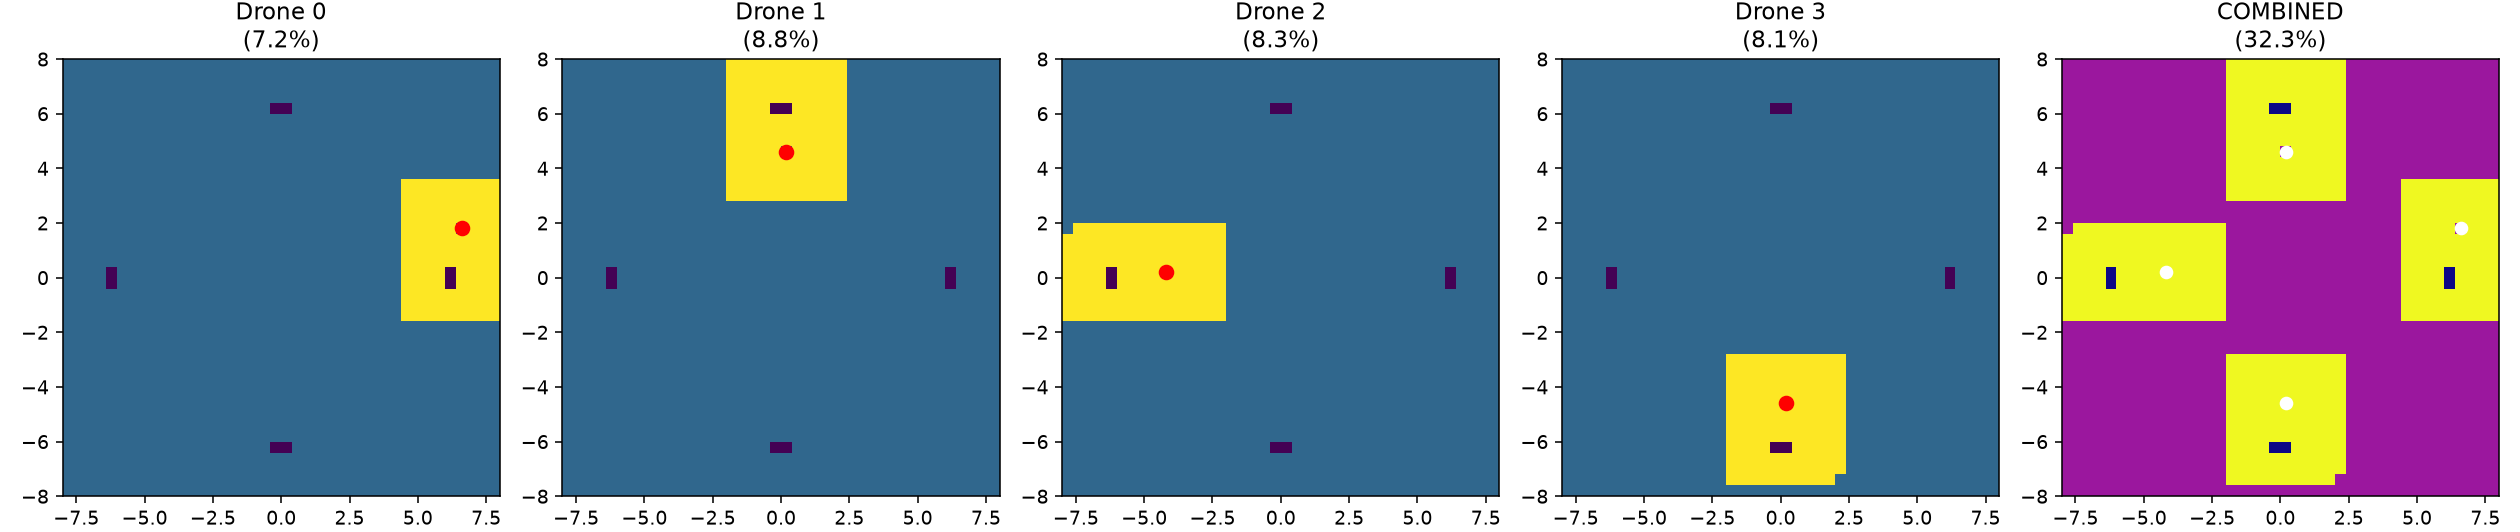
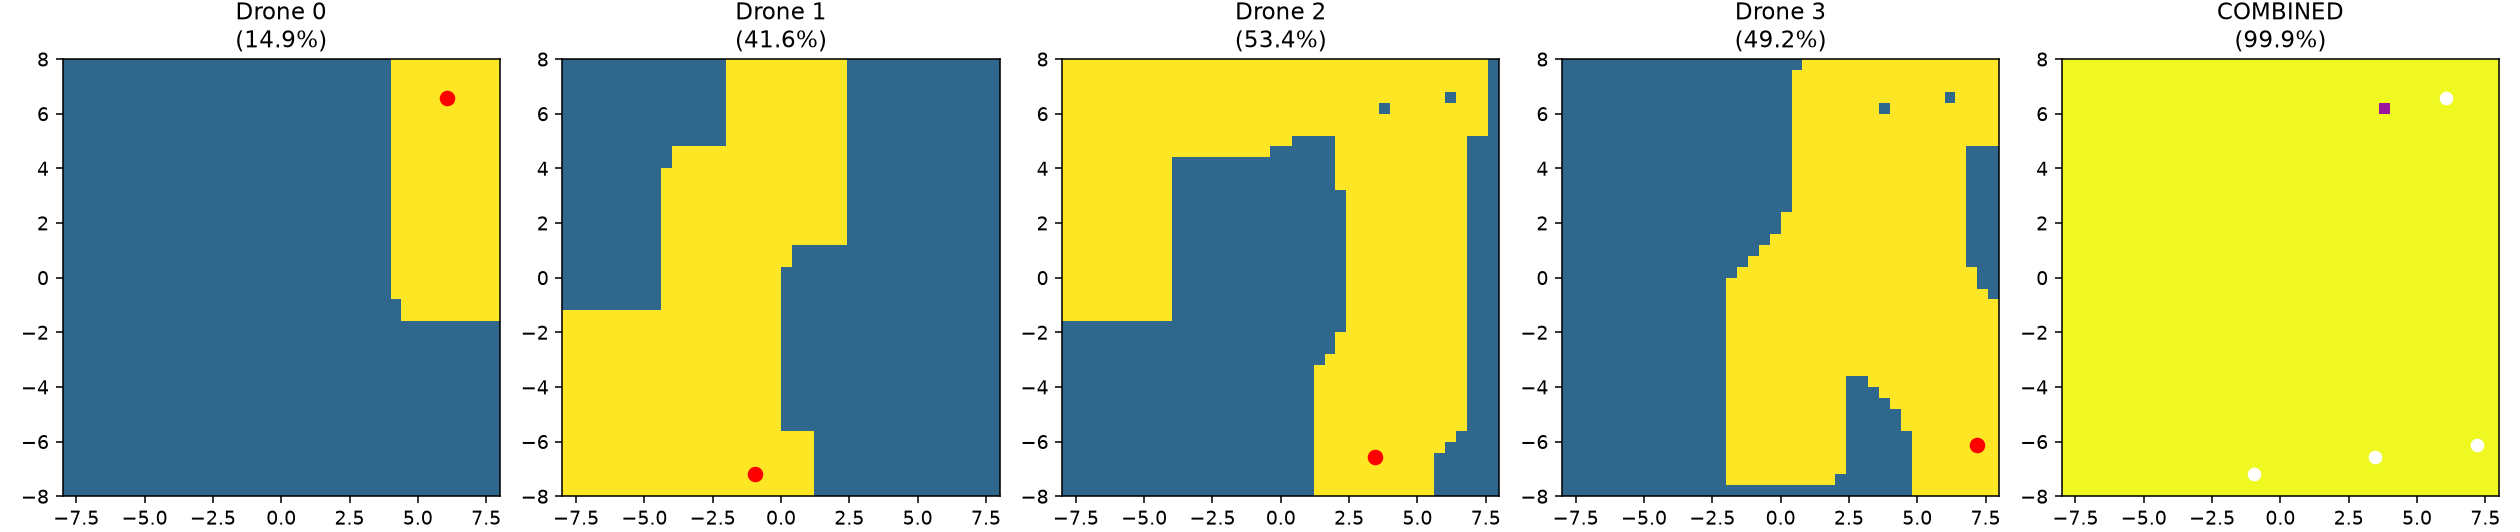
fixed patrol algo

diff --git a/src/algorithms.py b/src/algorithms.py
@@ -250,3 +250,74 @@ def sector_patrol_coverage_2(
 
     best_xy = apply_obstacle_clearance(cands[int(np.argmax(score))], grid)
     return np.array([float(best_xy[0]), float(best_xy[1]), 2.4])
+
+
+@register_algorithm("patrol_clean")
+def sector_patrol_clean(
+    ego: DroneState, peers: List[DroneState], grid: CoverageGrid
+) -> np.ndarray:
+    """
+    Minimalist 4-Step Decentralized Coverage Algorithm:
+    1. Keep current target while we are still flying toward it AND it remains unvisited.
+    2. Filter unvisited free cells outside our immediate 0.8m hover radius.
+    3. Score remaining cells by proximity (-distance) + tiny directional tie-breaker.
+    4. Repel from active peers' positions so drones split the map automatically.
+    """
+    # Get [x, y] coordinates of all arena grid cell centers, shape (N_cells, 2)
+    pts = grid.cell_centers
+    # Get this drone's local belief map [1.0 = unknown, 0.05 = well-scanned], shape (N_cells,)
+    unc = grid.drone_belief_uncertainty[ego.id]
+
+    # 1. Waypoint lock: keep flying to current target if we haven't arrived yet (> 0.8m)
+    #    AND the target cell is still traversable and unvisited
+    dist_to_target = float(np.linalg.norm(ego.target[:2] - ego.pos[:2]))
+    # Find the array index of the cell center closest to ego.target[:2]
+    # axis=1 computes the Euclidean norm across [dx, dy] for each row in pts
+    nearest_cell = int(np.argmin(np.linalg.norm(pts - ego.target[:2], axis=1)))
+    if (
+        dist_to_target > 0.8
+        and grid.free_cells[nearest_cell]
+        and unc[nearest_cell] > 0.25
+    ):
+        return np.array([float(ego.target[0]), float(ego.target[1]), 2.4])
+
+    # 2. Compute 2D Euclidean distance from ego's current position to every cell in the arena
+    ego_dists_all = np.linalg.norm(pts - ego.pos[:2], axis=1)
+
+    # Bitwise AND (&) combines three boolean masks:
+    #   - cell is unvisited (unc > 0.25)
+    #   - cell is not an obstacle (grid.free_cells)
+    #   - cell is outside our immediate 0.8m hover radius (forces forward movement)
+    unvisited = (unc > 0.25) & grid.free_cells & (ego_dists_all > 0.8)
+
+    # Fallback: if no unvisited cells exist beyond 0.8m (final cleanup phase), allow closer cells
+    if not np.any(unvisited):
+        unvisited = (unc > 0.25) & grid.free_cells
+
+    # If ALL free cells are visited according to ego's belief, hover in place
+    if not np.any(unvisited):
+        return np.array([float(ego.pos[0]), float(ego.pos[1]), 2.4])
+
+    # Extract [x, y] coordinates and precomputed distances for only the unvisited candidate cells
+    cands = pts[unvisited]
+    ego_dists = ego_dists_all[unvisited]
+
+    # 3. Primary attraction score + tie-breaker:
+    #    - Closer unvisited cells get higher (less negative) scores (-ego_dists)
+    #    - Tiny directional gradient (1e-2) breaks exact distance ties on the square grid
+    #      by preferring +X then +Y without overriding real distance costs
+    tie_breaker = 1e-2 * (cands[:, 0] + 0.1 * cands[:, 1])
+    score = -ego_dists + tie_breaker
+
+    # 4. Peer deconfliction: penalize candidates close to any active teammate so drones spread out
+    for p in peers:
+        if p.active and p.id != ego.id:
+            # Compute 2D Euclidean distance from teammate `p` to every candidate cell
+            peer_dists = np.linalg.norm(cands - p.pos[:2], axis=1)
+            # Subtract up to 8.0 points if a candidate is within 4.0m of teammate `p`
+            score -= np.maximum(0.0, 8.0 - 2.0 * peer_dists)
+
+    # Pick the highest-scoring cell and push it safely away from buildings and arena walls
+    best_xy = apply_obstacle_clearance(cands[int(np.argmax(score))], grid)
+    # Return the new 3D waypoint at cruising altitude z = 2.4m
+    return np.array([float(best_xy[0]), float(best_xy[1]), 2.4])

diff --git a/src/sim_core.py b/src/sim_core.py
@@ -96,7 +96,8 @@ class CoverageGrid:
         for idx, (cx, cy) in enumerate(self.cell_centers):
             origin[0], origin[1] = cx, cy
             hit = mujoco.mj_ray(model, data, origin, direction, None, 1, -1, geom_out)
-            if 0.0 < hit < 9.8:
+            hit_body = model.geom_bodyid[geom_out[0]] if geom_out[0] >= 0 else 0
+            if 0.0 < hit < 9.8 and hit_body == 0:
                 self.free_cells[idx] = False
                 self.drone_belief_uncertainty[:, idx] = 0.0
 
